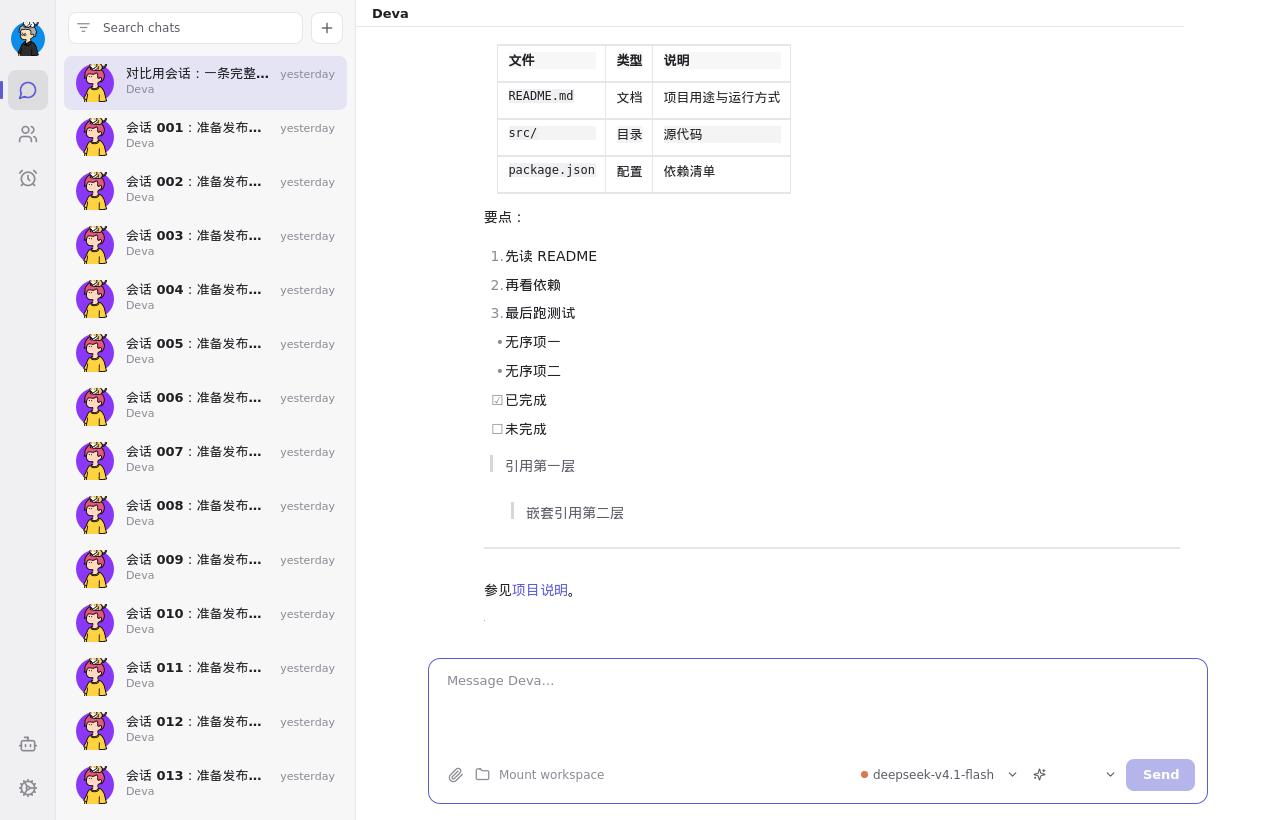
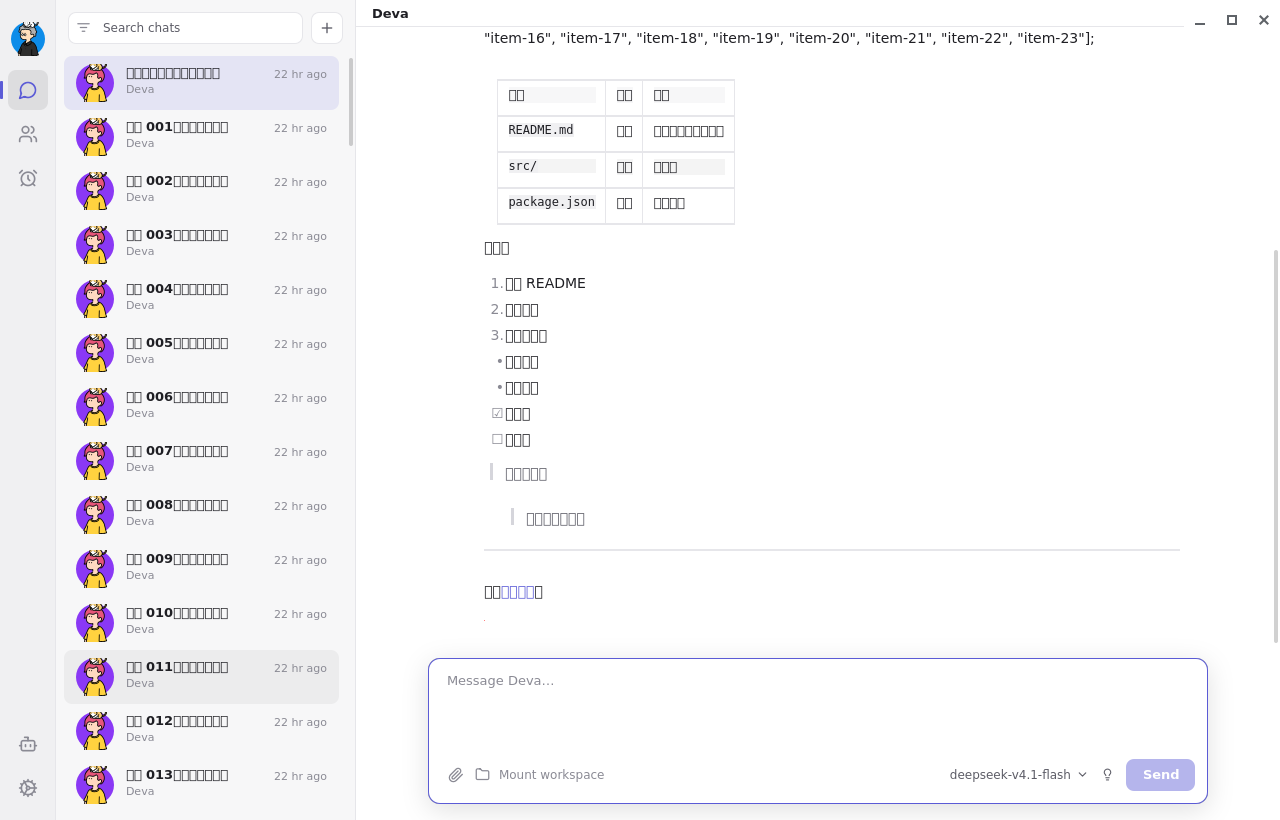
fix(qml): 对齐侧栏会话行 hover/选中态并校正窗口控件来源

diff --git a/app/src/qml/Main.qml b/app/src/qml/Main.qml
@@ -59,8 +59,12 @@ ApplicationWindow {
     property bool modelPickerOpen: page === "model-picker"
     // 打开的是哪一个菜单：模型列表 / 思考等级。空串 = 都关着。
     property string pickerMode: page === "model-picker" ? "model" : ""
-    // 交互态页面：hover 指定行、右键菜单、删除确认框
-    property int forceHoverRow: page === "hover-thread" ? 1 : -1
+    // 交互态页面：deva 截图的鼠标停在 (200,700)，落在第 11 行（y=56+54×11=650..703）；
+    // 只有列表页会照原版显示该行 hover，设置页/弹层/确认层不造悬停。
+    // `hover-thread` 原图指针不在任何行上（probe-hover.log 仅 42 px 噪声），因此保持 -1。
+    property int forceHoverRow: (page === "chat" || page === "search-open"
+                                 || page === "focus-composer" || page === "long-mid"
+                                 || page === "long-bottom" || page === "dark-chat") ? 11 : -1
     // 输入区焦点态：focus-composer 页要让输入卡片真的拿到键盘焦点，
     // 原版此时边框从 #d5d5db 变 #5b5bd6（CDP 实测 border-color）。
     property bool composerFocused: page === "focus-composer"
@@ -220,8 +224,9 @@ ApplicationWindow {
     // 叠 18/255 黑（原版实拍量得；遮罩压不暗它，因为原生叠加层画在网页之上）。
     //
     // 几何/配色来源（只读参考，未改动 deva）：
-    //   deva/apps/desktop/src/main/index.ts:87-90  OVERLAY_BG light #ffffff / dark #1e1e20
-    //   deva/apps/desktop/src/main/index.ts:109-116 titleBarStyle 'hidden' + titleBarOverlay（height 40）
+    //   deva/apps/desktop/src/main/index.ts:79-81  OVERLAY_BG light #ffffff / dark #1e1e20
+    //   deva/apps/desktop/src/main/index.ts:89-97  overlayOptions 的 height 40
+    //   deva/apps/desktop/src/main/index.ts:112-116 titleBarStyle 'hidden' + titleBarOverlay
     //   deva/node_modules/electron/electron.d.ts:21424-21439 Linux 不吃 symbolColor（系统色）
     //   deva 原版 1280×820 实拍 out/latest-parity/deva/chat-deva.png 逐像素：
     //     整块 96×40 @ x1184；最小化 10×2 @ x1195 y23；最大化 10×10 框 @ x1227 y15；
@@ -551,14 +556,15 @@ ApplicationWindow {
             }
         }
 
-        // 会话列表：行宽 283（x=8，右缘 291），滚动条占右侧 8px（291..298），
-        // 刚好落在原版 `.cf-list` 的右内边距里、1px 分隔线左侧。
+        // 会话列表：第二列 --cf-side 300（redesign.css:32），.cf-rail 右框 1px（:193）
+        // => .cf-list clientWidth 299；左右 padding 8（redesign.css:741-746），
+        // 滚动条再占 8（styles/app.css:45-62），行内容宽 = 299 - 8×2 - 8 = 275；行 x=64..338。
         ListView {
             id: sessionList
             objectName: "sessionList"
             x: 0
             y: window.archiveView ? 92 : 56
-            width: 299
+            width: Theme.sideWidth - 1
             height: parent.height - y - 8
             clip: true
             leftMargin: 8
@@ -583,7 +589,8 @@ ApplicationWindow {
                 required property int index
                 required property var modelData
                 x: 8
-                width: ListView.view.width - 16
+                // 299 - 左右 padding 8×2 - 滚动条 8 = 275（deva DOM threads[0].rect.w）。
+                width: ListView.view.width - 2 * Theme.space2 - Theme.scrollbarWidth
                 title: modelData.title || ""
                 time: modelData.time || ""
                 persona: modelData.persona || "general"

diff --git a/app/src/qml/ThreadRow.qml b/app/src/qml/ThreadRow.qml
@@ -1,6 +1,13 @@
 // 会话行的几何与配色逐项取自原版（CDP 实测 out/qml-shell/dom/chat.json）：
 //   行 275×54，padding 8/12，grid 38px + 12px gap，头像 38，标题 13/600，
 //   时间 11/#8a8a94，选中底色 rgba(91,91,214,0.12)，圆角 8。
+// 三态优先级严格照 apps/desktop/src/renderer/src/redesign/redesign.css：
+//   hover  = --bg-hover（styles/tokens.css:45 rgba(0,0,0,0.045)；深色 :113 rgba(255,255,255,0.06)），
+//            见 redesign.css:762-764；叠在 #f7f7f8 上为 (236,236,237)。
+//   active = --bg-selected（styles/tokens.css:47 rgba(91,91,214,0.12)；深色 :115 rgba(124,124,240,0.2)），
+//            见 redesign.css:765-767；叠在 #f7f7f8 上为 (228,228,244)。
+//   picked = 多选勾选态，同样用 --bg-selected（redesign.css:788-793），勾选框见 :795-813。
+// active / picked 的规则在 hover 之后，故二者优先于 hover，与下列绑定顺序一致。
 import QtQuick
 import "."
 
@@ -11,7 +18,7 @@ Rectangle {
     property string persona: "general"
     property string ownerName: ""
     property bool active: false
-    // 交互态：逐页对比里 hover-thread 需要指定某一行处于 hover（原版是真实鼠标悬停）。
+    // 交互态：逐页对比里需要固定某一行显示 hover 时使用（原版是真实鼠标悬停）。
     property bool forceHover: false
     // 多选态：右键「Select」进入后显示左侧勾选框，点击整行即切换选中。
     property bool selectionMode: false

diff --git a/app/tests/test_qml_sidebar.py b/app/tests/test_qml_sidebar.py
@@ -1,0 +1,96 @@
+"""侧栏会话行：按 deva CSS/DOM 取宽高、内边距、圆角与 hover/selected/active 三态底色。
+
+判据来源（只读 deva）：
+- `redesign.css:32`：`.cf-body` 第二列 `--cf-side` 默认 300px；`:193` `.cf-rail` 右框 1px
+  → `.cf-list` clientWidth 299；
+- `redesign.css:741-746`：`.cf-list` 左右 padding `var(--space-2)`=8、`overflow-y:auto`；
+- `styles/app.css:45-62`：WebKit 滚动条宽 8；
+- 所以行内容宽 = 299 - 8×2 - 8 = 275，DOM `out/qml-shell/dom/chat.json`
+  的 `threads[0].rect` 实测也是 `{x:64, y:56, w:275, h:54}`；
+- `redesign.css:749-767`：`.cf-thread` padding 8px 12px、圆角 `var(--radius)`=8、上下两行 38px 头像
+  → 行高 38 + 8×2 = 54；hover `var(--bg-hover)`、active `var(--bg-selected)`；
+- `redesign.css:788-793`：多选 picked 态同样使用 `var(--bg-selected)`；
+- `styles/tokens.css:45-47`：`--bg-hover: rgba(0,0,0,0.045)`、`--bg-selected: rgba(91,91,214,0.12)`。
+"""
+from __future__ import annotations
+
+import os
+
+os.environ.setdefault("QT_QPA_PLATFORM", "offscreen")
+
+import pytest
+
+
+@pytest.fixture(scope="module")
+def qapp():
+    from PySide6.QtGui import QGuiApplication
+
+    application = QGuiApplication.instance() or QGuiApplication([])
+    yield application
+
+
+def _pixel(image, x: int, y: int) -> tuple[int, int, int]:
+    color = image.pixelColor(x, y)
+    return color.red(), color.green(), color.blue()
+
+
+def test_sidebar_rows_match_deva_bounds_and_states(qapp, tmp_path, monkeypatch):
+    from PySide6.QtCore import QPoint, QPointF
+    from PySide6.QtTest import QTest
+
+    import test_qml_window_controls as window_test
+
+    sessions = [(f"s-{index:03d}", f"会话 {index:03d}") for index in range(20)]
+    window, _bridge, ticker, engine = window_test._build_window(
+        tmp_path, monkeypatch, sessions=sessions
+    )
+    try:
+        window_test._pump(qapp, 0.8)
+
+        rows = [window_test._find_item(window.contentItem(), f"threadRow{index}") for index in range(2)]
+        assert all(row is not None for row in rows), "侧栏前两行必须已实例化"
+
+        # x=64 来自 .cf-list x=56 + 左 padding 8；宽 275 来自 299-8×2-8。
+        origin = rows[0].mapToScene(QPointF(0, 0))
+        assert (origin.x(), origin.y()) == (64, 56)
+        assert rows[0].property("width") == pytest.approx(275)
+        assert rows[0].property("height") == pytest.approx(54)
+        assert rows[1].mapToScene(QPointF(0, 0)).y() == 110
+
+        image = window.grabWindow()
+        # 第一行 active：rgba(91,91,214,0.12) 叠在 #f7f7f8 上 = (228,228,244)。
+        assert _pixel(image, 70, 70) == (228, 228, 244)
+        assert _pixel(image, 338, 70) == (228, 228, 244)
+        assert _pixel(image, 339, 70) == (247, 247, 248), "行右缘必须止于 x=338"
+
+        # chat 第 11 行：deva 原图鼠标 (200,700) 的 hover，rgba(0,0,0,0.045) → (236,236,237)。
+        assert _pixel(image, 70, 660) == (236, 236, 237)
+        assert _pixel(image, 338, 660) == (236, 236, 237)
+        assert _pixel(image, 339, 660) == (247, 247, 248), "hover 范围同样止于 x=338"
+
+        # 第二行 hover：真实鼠标移入后逐像素取同 token。
+        QTest.mouseMove(window, QPoint(160, 140))
+        window_test._pump(qapp, 0.2)
+        image = window.grabWindow()
+        assert _pixel(image, 70, 140) == (236, 236, 237)
+        assert _pixel(image, 338, 140) == (236, 236, 237)
+        assert _pixel(image, 339, 140) == (247, 247, 248), "hover 范围同样止于 x=338"
+
+        # 多选 picked：deva `.cf-thread.is-picked` 也用 --bg-selected，且出现勾选框。
+        second_id = window.property("listedSessions")[1]["id"]
+        window.setProperty("selectMode", True)
+        window.setProperty("selectedSessions", [second_id])
+        window_test._pump(qapp, 0.2)
+        rows = [window_test._find_item(window.contentItem(), f"threadRow{index}") for index in range(2)]
+        assert rows[0].property("active") is True
+        assert rows[1].property("selected") is True
+        check = window_test._find_item(rows[1], "threadCheck")
+        assert check is not None and check.property("visible") is True
+        image = window.grabWindow()
+        assert _pixel(image, 70, 140) == (228, 228, 244)
+        assert _pixel(image, 338, 140) == (228, 228, 244)
+        assert _pixel(image, 339, 140) == (247, 247, 248), "picked 范围同样止于 x=338"
+    finally:
+        ticker.stop()
+        window.close()
+        engine.deleteLater()

diff --git a/app/tests/test_qml_window_controls.py b/app/tests/test_qml_window_controls.py
@@ -1,8 +1,9 @@
 """标题栏窗口控件：真实 QML 窗口 + 像素几何 + ``QTest.mouseClick`` 状态断言。
 
 判据来源（只读）：
-- deva `apps/desktop/src/main/index.ts:87-90`：Linux 叠加层底色 #ffffff / #1e1e20；
-- deva `apps/desktop/src/main/index.ts:109-116`：`titleBarStyle:'hidden'` + `titleBarOverlay`，height 40；
+- deva `apps/desktop/src/main/index.ts:79-81`：Linux 叠加层底色 #ffffff / #1e1e20；
+- deva `apps/desktop/src/main/index.ts:89-97`：`overlayOptions` 的 `height: 40`；
+- deva `apps/desktop/src/main/index.ts:112-116`：`titleBarStyle:'hidden'` + `titleBarOverlay`；
 - deva 原版 1280×820 实拍 `out/latest-parity/deva/chat-deva.png` 逐像素：
   右上 96×40 实色块，三个 32×40 按钮 x=1184/1216/1248；最小化 10×2 @ (1195,23)；
   最大化 10×10 框 @ (1227,15)；关闭 10×10 X @ (1259,15)；图标 #5F6368。
@@ -69,7 +70,7 @@ def _pump(app, seconds: float = 0.4) -> None:
     pump(app, lambda: False, seconds)
 
 
-def _build_window(tmp_path, monkeypatch):
+def _build_window(tmp_path, monkeypatch, sessions=None):
     from PySide6.QtCore import QUrl
     from PySide6.QtQml import QQmlApplicationEngine
 
@@ -95,6 +96,12 @@ def _build_window(tmp_path, monkeypatch):
     vault = SecretsVault(home)
     vault.set_secret("p1", "sk-test")
     store = ChatSessionStore(home)
+    for index, (session_id, title) in enumerate(sessions or []):
+        session = store.ensure_session(session_id)
+        session.title = title
+        session.createdAt = 1000 + index
+        session.updatedAt = 1000 + index
+        store.save(session_id)
     PersonaStore(home).ensure_seeded()
 
     box: dict = {}

diff --git a/app/tests/test_qml_shell.py b/app/tests/test_qml_shell.py
@@ -700,6 +700,13 @@ def test_qml_scrollbars_match_deva_and_scroll(qapp, tmp_path, monkeypatch):
     check_scroll(tmp_path / "scroll", monkeypatch, qapp)
 
 
+def test_qml_sidebar_rows_match_deva_bounds_and_states(qapp, tmp_path, monkeypatch):
+    """侧栏行宽 275、行高 54，hover/选中底色与边界按 deva CSS/DOM 锁定。"""
+    from test_qml_sidebar import test_sidebar_rows_match_deva_bounds_and_states as check_sidebar
+
+    check_sidebar(qapp, tmp_path / "sidebar", monkeypatch)
+
+
 def test_delete_current_session_removes_file_and_falls_back(tmp_path, monkeypatch):
     """删除当前会话：文件消失、索引同步，当前会话按列表第一行回退。"""
     bridge, store, _host = _bridge(

diff --git a/out/latest-parity/REPORT.md b/out/latest-parity/REPORT.md
@@ -1352,74 +1352,74 @@ $ python3 -I scripts/parity/page_diff18.py out/latest-parity/deva out/latest-par
 rc=0
 ```
 
-### 5.2 18 页逐页差异整表
+### 5.2 18 页逐页差异整表（当前图）
 
-上方命令的原始输出（**已按 §4.4 / §4.7 / §4.8 / §4.9 / §4.10 与后续重拍后的当前图复算**：
-`.venv/bin/python -I scripts/parity/page_diff18.py out/latest-parity/deva out/latest-parity/qml`
-→ rc=0；每行原样对应一页。历史日志 `out/latest-parity/logs/c6-page-diff18-final.log` 保留修复当时的快照，
-本表下列五行已按当前图值与后续实测日志回填）：
+本轮 B（窗口控制 + 侧栏 hover/selected）只重拍受影响的 7 页：`chat`、`search-open`、
+`focus-composer`、`long-mid`、`long-bottom`、`dark-chat`、`hover-thread`；其余 11 页未重拍。
+下表是当前工作区图片的真实输出（原样）：
 
 ```
-chat                   ac72cd597ae44377b608777cbd5e2e81 d7ac856efc22a4ce41369baa0be1e75a  158583  100242  119799  11.41% max=248 same=False
+$ .venv/bin/python -I scripts/parity/page_diff18.py out/latest-parity/deva out/latest-parity/qml
+rc=0
+chat                   ac72cd597ae44377b608777cbd5e2e81 d6262dc74fd80e10fc6e1f7f8807864b  158583   99849  107344  10.23% max=248 same=False
 empty                  a616eabe08d8c107709b89d699604d13 1d26dc8bad6864d49ae706556efca3bc   40733   38553   10214   0.97% max=248 same=False
 first-run              0e2b5786d552a73525ded72469f224ea 1d26dc8bad6864d49ae706556efca3bc   40733   38553   10214   0.97% max=248 same=False
-search-open            3a5f80988f34cbcccf98281d7697498e 2bf956a8237e685cdf2033ced3c242ae  158824  140997  136170  12.97% max=248 same=False
+search-open            3a5f80988f34cbcccf98281d7697498e c2441cec0d6f25b7b82940b2b7c78119  158824  100187  107373  10.23% max=248 same=False
 search-results         1d1ba8121289fc7b91cdd95938a3ecad 8680485a1ea14fc8eff49a6b8583efa9  130449  115306  113729  10.84% max=248 same=False
 search-none            49503995317b15b2d1806c1c0a99e5b3 478a9e7e0b001dd7215dab3f8074c1d7   64532   53768   93091   8.87% max=224 same=False
 ctx-menu               64c8c33a5c5c5e905288cca4fab37285 670cb0a6175633c7dd4de65db75dc600  158033  160017  115327  10.99% max=248 same=False
 delete-confirm         964c32d139d41a71c3eb2b9026e24f9b 5b8baeb969eb5d8a416be851c24d7dce  162718  147103  384883  36.67% max=224 same=False
 model-picker           946b07def583e696822df943b6935f04 91b3f5cc9f9d936fd666892bf4f29535  164258  106996  115579  11.01% max=248 same=False
-hover-thread           16917898b7b5fb7b95a515bee87001d1 bab936657c1f28ce5862c40672d47e8a  158169  140893  136545  13.01% max=248 same=False
-focus-composer         e976e0858fd2d6741c6ffe52ad72a5b4 6a4ff152ff3aacae596c849968cc9cde  158745  140778  136157  12.97% max=248 same=False
-long-mid               147fb156af029f6c57cfb686d6e84c0c 8905296c9f8d7e2b372b7e44acb68623  143456  142304  126160  12.02% max=255 same=False
-long-bottom            be7b7fe814eb8ebcf11369bdec650a68 880b26bdebdb3e10d3afff973460ce37  157770  139668  135084  12.87% max=248 same=False
+hover-thread           16917898b7b5fb7b95a515bee87001d1 e2faafde09c1c72dc2070b03c9233ae9  158169   99587  107306  10.22% max=248 same=False
+focus-composer         e976e0858fd2d6741c6ffe52ad72a5b4 f2c8613fa58b45f91b491fca0b82c702  158745   99941  107360  10.23% max=248 same=False
+long-mid               147fb156af029f6c57cfb686d6e84c0c a3d2be394827ee8f82cb46c8e94d9557  143456  101887  119093  11.35% max=255 same=False
+long-bottom            be7b7fe814eb8ebcf11369bdec650a68 01872a3a01a72a5797bfd2f613962af3  157770   98637  118624  11.30% max=248 same=False
 settings-general       4d16a5c68b170e998bb4892713b8263e c0f484af63df61817a87a15341e9d212  142486  113127  335142  31.93% max=224 same=False
 settings-models        7f7a6dd835823f50475db7a3c9e727c1 92c0f06f8b41707f3e6396e8c1bfe529  132243   81933  294323  28.04% max=216 same=False
 settings-extensions    15d607e162e2ef874dd6e59a78d0dd5c 4fb02618eea39c43f95d17ae760fee4e  139387  110088  330260  31.47% max=216 same=False
 settings-about         3fac0ec7f4820e99a1bac811de88697f 0c9bfc43f211a89ec8e1f50e556a683a  135693  104052  328222  31.27% max=224 same=False
-dark-chat              252996a52c0b1d02cfb3205ba1798c94 3aa7be544db6effc57214a22b11516ec  158038  141637  128299  12.22% max=230 same=False
+dark-chat              252996a52c0b1d02cfb3205ba1798c94 a625825a98eb82df6e24e7f88052c4cc  158038   99153  105756  10.08% max=230 same=False
 ```
-
-与修复前的旧值对照（只列有修复前后实测的页面）：
-
-| 页 | 修复前 差异像素 / % | 修复后 差异像素 / % | 修复来源 |
-|---|---:|---:|---|
-| chat | 136141 / 12.97% | 119799 / 11.41% | §4.7 输入卡片 + §5.6 侧栏/正文滚动条后重拍 |
-| ctx-menu | 143461 / 13.67% | 115327 / 10.99% | §4.8 菜单 5 项 + Delete 危险色；`923f554` 重拍 |
-| delete-confirm | 401948 / 38.30% | 384883 / 36.67% | §4.8 真可交互的确认层 |
-| model-picker | 149105 / 14.21%（归档图）→ 同代码重拍 141550 / 13.49% | 115579 / 11.01% | §4.9 弹层内容 + 聚焦态；`342186e` 分组分隔与盒模型 |
-| settings-general | 340813 / 32.47%（旧表基线） | 335142 / 31.93% | §4.10 标题栏窗口控件 |
-| settings-models | 325672 / 31.03% | 294323 / 28.04% | §4.4.5 Models 容器/副标题/行尾图标 |
-| dark-chat | 258651 / 24.64% | 128299 / 12.22% | §4.7 输入卡片 `--bg-elevated` + `--shadow` |
 
 整理成表（差异像素 = 三通道任一非零的像素数；差异% = 差异像素 / (1280×820)；max = 单像素最大通道差）：
 
 | 页名 | 原版 md5 | QML md5 | 差异像素 | 差异% | max 通道差 | 口径 |
-|---|---|---|---|---|---|---|
-| chat | `ac72cd597ae44377b608777cbd5e2e81` | `d7ac856efc22a4ce41369baa0be1e75a` | 119799 | 11.41% | 248 | 当前实测（§5.6） |
+|---|---|---|---:|---:|---:|---|
+| chat | `ac72cd597ae44377b608777cbd5e2e81` | `d6262dc74fd80e10fc6e1f7f8807864b` | 107344 | 10.23% | 248 | 当前实测（B 轮重拍） |
 | empty | `a616eabe08d8c107709b89d699604d13` | `1d26dc8bad6864d49ae706556efca3bc` | 10214 | 0.97% | 248 | 未重拍（沿用旧值 + 2026-11-23） |
 | first-run | `0e2b5786d552a73525ded72469f224ea` | `1d26dc8bad6864d49ae706556efca3bc` | 10214 | 0.97% | 248 | 未重拍（沿用旧值 + 2026-11-23） |
-| search-open | `3a5f80988f34cbcccf98281d7697498e` | `2bf956a8237e685cdf2033ced3c242ae` | 136170 | 12.97% | 248 | 未重拍（沿用旧值 + 2026-11-23） |
+| search-open | `3a5f80988f34cbcccf98281d7697498e` | `c2441cec0d6f25b7b82940b2b7c78119` | 107373 | 10.23% | 248 | 当前实测（B 轮重拍） |
 | search-results | `1d1ba8121289fc7b91cdd95938a3ecad` | `8680485a1ea14fc8eff49a6b8583efa9` | 113729 | 10.84% | 248 | 未重拍（沿用旧值 + 2026-11-23） |
 | search-none | `49503995317b15b2d1806c1c0a99e5b3` | `478a9e7e0b001dd7215dab3f8074c1d7` | 93091 | 8.87% | 224 | 未重拍（沿用旧值 + 2026-11-23） |
-| ctx-menu | `64c8c33a5c5c5e905288cca4fab37285` | `670cb0a6175633c7dd4de65db75dc600` | 115327 | 10.99% | 248 | 当前实测（§4.8 / `923f554`） |
-| delete-confirm | `964c32d139d41a71c3eb2b9026e24f9b` | `5b8baeb969eb5d8a416be851c24d7dce` | 384883 | 36.67% | 224 | 当前实测（§4.8） |
-| model-picker | `946b07def583e696822df943b6935f04` | `91b3f5cc9f9d936fd666892bf4f29535` | 115579 | 11.01% | 248 | 当前实测（§4.9 / `342186e`） |
-| hover-thread | `16917898b7b5fb7b95a515bee87001d1` | `bab936657c1f28ce5862c40672d47e8a` | 136545 | 13.01% | 248 | 未重拍（沿用旧值 + 2026-11-23） |
-| focus-composer | `e976e0858fd2d6741c6ffe52ad72a5b4` | `6a4ff152ff3aacae596c849968cc9cde` | 136157 | 12.97% | 248 | 未重拍（沿用旧值 + 2026-11-23） |
-| long-mid | `147fb156af029f6c57cfb686d6e84c0c` | `8905296c9f8d7e2b372b7e44acb68623` | 126160 | 12.02% | 255 | 未重拍（沿用旧值 + 2026-11-23） |
-| long-bottom | `be7b7fe814eb8ebcf11369bdec650a68` | `880b26bdebdb3e10d3afff973460ce37` | 135084 | 12.87% | 248 | 未重拍（沿用旧值 + 2026-11-23） |
-| settings-general | `4d16a5c68b170e998bb4892713b8263e` | `c0f484af63df61817a87a15341e9d212` | 335142 | 31.93% | 224 | 当前实测（§4.10） |
-| settings-models | `7f7a6dd835823f50475db7a3c9e727c1` | `92c0f06f8b41707f3e6396e8c1bfe529` | 294323 | 28.04% | 216 | 当前实测（§4.4.5） |
+| ctx-menu | `64c8c33a5c5c5e905288cca4fab37285` | `670cb0a6175633c7dd4de65db75dc600` | 115327 | 10.99% | 248 | 未重拍（沿用旧值 + 2026-11-23） |
+| delete-confirm | `964c32d139d41a71c3eb2b9026e24f9b` | `5b8baeb969eb5d8a416be851c24d7dce` | 384883 | 36.67% | 224 | 未重拍（沿用旧值 + 2026-11-23） |
+| model-picker | `946b07def583e696822df943b6935f04` | `91b3f5cc9f9d936fd666892bf4f29535` | 115579 | 11.01% | 248 | 未重拍（沿用旧值 + 2026-11-23） |
+| hover-thread | `16917898b7b5fb7b95a515bee87001d1` | `e2faafde09c1c72dc2070b03c9233ae9` | 107306 | 10.22% | 248 | 当前实测（B 轮重拍） |
+| focus-composer | `e976e0858fd2d6741c6ffe52ad72a5b4` | `f2c8613fa58b45f91b491fca0b82c702` | 107360 | 10.23% | 248 | 当前实测（B 轮重拍） |
+| long-mid | `147fb156af029f6c57cfb686d6e84c0c` | `a3d2be394827ee8f82cb46c8e94d9557` | 119093 | 11.35% | 255 | 当前实测（B 轮重拍） |
+| long-bottom | `be7b7fe814eb8ebcf11369bdec650a68` | `01872a3a01a72a5797bfd2f613962af3` | 118624 | 11.30% | 248 | 当前实测（B 轮重拍） |
+| settings-general | `4d16a5c68b170e998bb4892713b8263e` | `c0f484af63df61817a87a15341e9d212` | 335142 | 31.93% | 224 | 未重拍（沿用旧值 + 2026-11-23） |
+| settings-models | `7f7a6dd835823f50475db7a3c9e727c1` | `92c0f06f8b41707f3e6396e8c1bfe529` | 294323 | 28.04% | 216 | 未重拍（沿用旧值 + 2026-11-23） |
 | settings-extensions | `15d607e162e2ef874dd6e59a78d0dd5c` | `4fb02618eea39c43f95d17ae760fee4e` | 330260 | 31.47% | 216 | 未重拍（沿用旧值 + 2026-11-23） |
 | settings-about | `3fac0ec7f4820e99a1bac811de88697f` | `0c9bfc43f211a89ec8e1f50e556a683a` | 328222 | 31.27% | 224 | 未重拍（沿用旧值 + 2026-11-23） |
-| dark-chat | `252996a52c0b1d02cfb3205ba1798c94` | `3aa7be544db6effc57214a22b11516ec` | 128299 | 12.22% | 230 | 当前实测（§4.7） |
+| dark-chat | `252996a52c0b1d02cfb3205ba1798c94` | `a625825a98eb82df6e24e7f88052c4cc` | 105756 | 10.08% | 230 | 当前实测（B 轮重拍） |
 
-口径说明：表中 7 页为当前实测；其余 11 页**未重拍（沿用旧值 + 2026-11-23）**，只用于结构对照，不得当作本轮新值。
+本轮 7 页改前 → 改后（改前为 A 提交 `2cd83e8` 的当前图实测，改后为本轮重拍图）：
+
+| 页 | 改前 差异像素 / % | 改后 差异像素 / % | 变化 |
+|---|---:|---:|---:|
+| chat | 119799 / 11.41% | 107344 / 10.23% | -12455 px / -1.18 pp |
+| search-open | 136170 / 12.97% | 107373 / 10.23% | -28797 px / -2.74 pp |
+| hover-thread | 136545 / 13.01% | 107306 / 10.22% | -29239 px / -2.79 pp |
+| focus-composer | 136157 / 12.97% | 107360 / 10.23% | -28797 px / -2.74 pp |
+| long-mid | 126160 / 12.02% | 119093 / 11.35% | -7067 px / -0.67 pp |
+| long-bottom | 135084 / 12.87% | 118624 / 11.30% | -16460 px / -1.57 pp |
+| dark-chat | 128299 / 12.22% | 105756 / 10.08% | -22543 px / -2.14 pp |
+
+口径说明：表中 7 页为本轮 B 重拍后的当前实测；其余 11 页**未重拍（沿用旧值 + 2026-11-23）**，
+只用于结构对照，不得当作本轮新值。18 页 `same=` 全部为 False，无任何一页与参考图逐像素相同。
 
 注：`empty` 与 `first-run` 两页原版图 md5 不同但像素完全相同（`out/latest-parity/probe-final2.log` 第 1 节："deva 侧 empty/first-run 像素完全相同"），差异仅来自 PNG 编码；QML 侧两页 md5 相同（`1d26dc8bad6864d49ae706556efca3bc`），即 QML 侧两态渲染完全一致。
-
-18 页 `same=` 全部为 False，无任何一页与参考图逐像素相同。
 
 ### 5.3 四条硬判据（每条附真实命令与实测输出）
 
